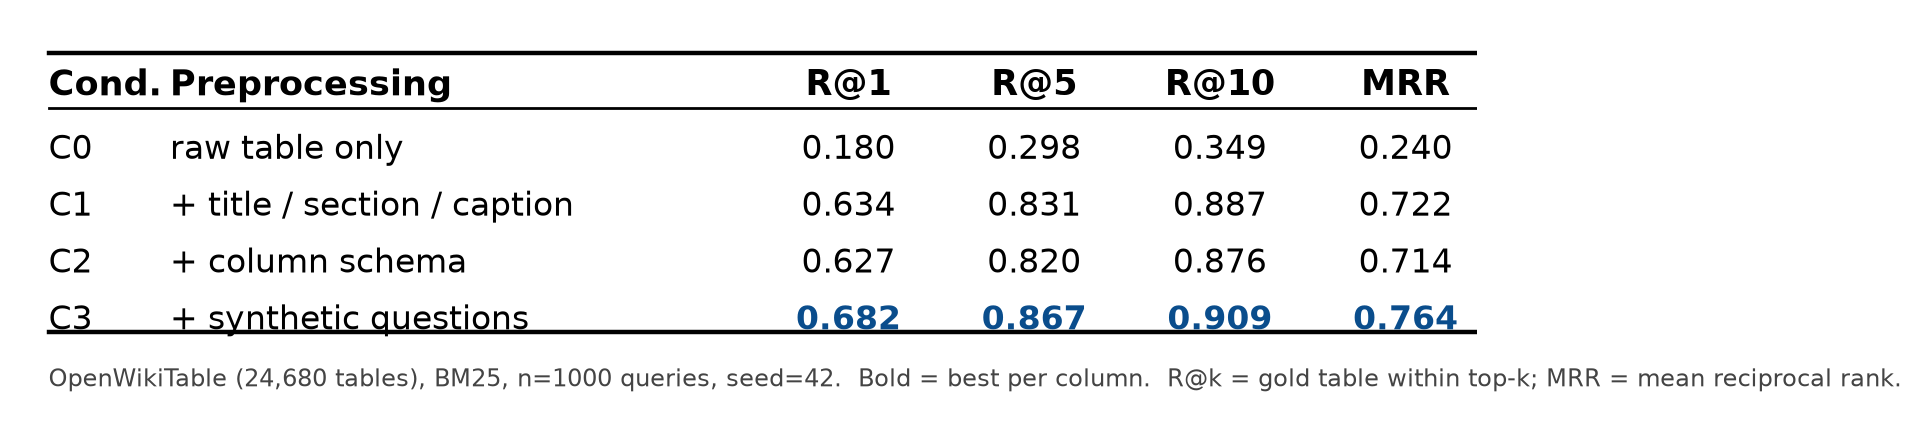
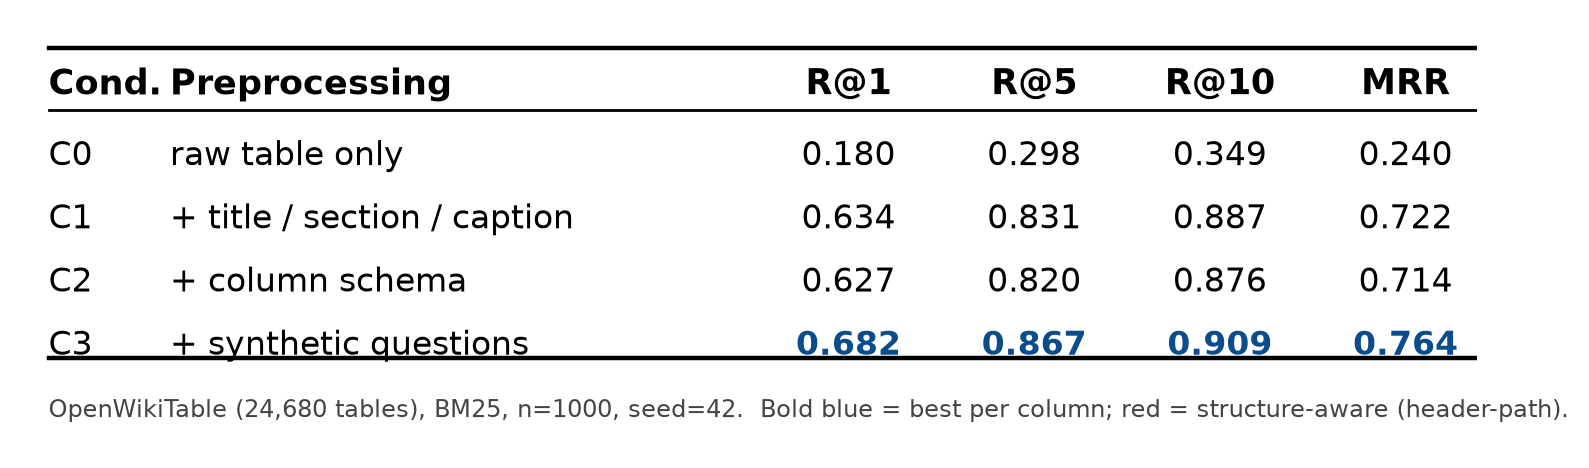
Add HiTab BM25 results table; generalize table-drawing script (parametric)

diff --git a/rag-agent/scripts/draw_results_table.py b/rag-agent/scripts/draw_results_table.py
@@ -1,70 +1,89 @@
 #!/usr/bin/env python3
-"""Render the BM25 preprocessing results as a publication-style (booktabs) table."""
+"""Render a prep-retrieval result JSON as a publication-style (booktabs) table.
+
+Usage:
+  python scripts/draw_results_table.py \
+      --json results/prep/owt_bm25_n1000.json \
+      --conditions C0,C1,C2,C3 \
+      --caption "OpenWikiTable (24,680 tables), BM25, n=1000, seed=42." \
+      --out docs/table_bm25_results.png
+"""
+import argparse
 import json
 from pathlib import Path
 import matplotlib
 matplotlib.use("Agg")
 import matplotlib.pyplot as plt
 
-base = Path(__file__).resolve().parents[1]
-d = json.load(open(base / "results/prep/owt_bm25_n1000.json"))
-C = d["conditions"]
-DESC = {"C0": "raw table only", "C1": "+ title / section / caption",
-        "C2": "+ column schema", "C3": "+ synthetic questions"}
-rows_order = ["C0", "C1", "C2", "C3"]
-metrics = ["R@1", "R@5", "R@10", "MRR"]
+DESC = {
+    "C0": "raw table only",
+    "C1": "+ title / section / caption",
+    "C2": "+ column schema",
+    "C2h": "+ header-path schema",
+    "C3": "+ synthetic questions",
+}
+# conditions to visually flag as structure-aware (header-path)
+HILITE = {"C2h"}
 
-# build cell text; bold the column-max
-colmax = {m: max(C[c][m] for c in rows_order) for m in metrics}
-table_rows = []
-for c in rows_order:
-    cells = [c, DESC[c]]
-    for m in metrics:
-        v = C[c][m]
-        cells.append(f"{v:.3f}")
-    table_rows.append(cells)
 
-header = ["Cond.", "Preprocessing", "R@1", "R@5", "R@10", "MRR"]
+def main():
+    p = argparse.ArgumentParser()
+    p.add_argument("--json", required=True)
+    p.add_argument("--conditions", default="C0,C1,C2,C3")
+    p.add_argument("--caption", default="")
+    p.add_argument("--out", required=True)
+    args = p.parse_args()
 
-plt.rcParams.update({"font.family": "DejaVu Sans"})
-fig, ax = plt.subplots(figsize=(9.4, 2.5))
-ax.axis("off")
+    base = Path(__file__).resolve().parents[1]
+    d = json.load(open(base / args.json))
+    C = d["conditions"]
+    order = [c.strip() for c in args.conditions.split(",")]
+    metrics = ["R@1", "R@5", "R@10", "MRR"]
+    colmax = {m: max(C[c][m] for c in order) for m in metrics}
 
-ncol = len(header)
-# column x-positions
-xs = [0.0, 0.085, 0.56, 0.69, 0.82, 0.95]
-y0 = 0.82
-dy = 0.155
+    header = ["Cond.", "Preprocessing", "R@1", "R@5", "R@10", "MRR"]
+    xs = [0.0, 0.085, 0.56, 0.69, 0.82, 0.95]
 
-# header
-for j, h in enumerate(header):
-    ha = "left" if j <= 1 else "center"
-    ax.text(xs[j], y0, h, fontsize=12.5, fontweight="bold", ha=ha, va="center")
-# rules (booktabs)
-ax.plot([0, 1.0], [y0+0.09, y0+0.09], color="black", lw=1.6)   # top
-ax.plot([0, 1.0], [y0-0.06, y0-0.06], color="black", lw=1.0)   # mid
+    plt.rcParams.update({"font.family": "DejaVu Sans"})
+    h = 1.1 + 0.42 * len(order)
+    fig, ax = plt.subplots(figsize=(9.4, h))
+    ax.axis("off")
 
-for i, r in enumerate(table_rows):
-    yy = y0 - 0.06 - dy*(i+1) + 0.04
-    for j, txt in enumerate(r):
+    y0 = 0.84
+    dy = 0.62 / len(order) if len(order) <= 4 else 0.155
+    dy = 0.155
+
+    for j, hh in enumerate(header):
         ha = "left" if j <= 1 else "center"
-        m = header[j] if j >= 2 else None
-        bold = (m is not None and abs(C[r[0]][m] - colmax[m]) < 1e-9)
-        ax.text(xs[j], yy, txt, fontsize=12, ha=ha, va="center",
-                fontweight="bold" if bold else "normal",
-                color="#0a4d8c" if bold else "black")
-# bottom rule
-ybot = y0 - 0.06 - dy*len(table_rows) + 0.01
-ax.plot([0, 1.0], [ybot, ybot], color="black", lw=1.6)
+        ax.text(xs[j], y0, hh, fontsize=12.5, fontweight="bold", ha=ha, va="center")
+    ax.plot([0, 1.0], [y0 + 0.09, y0 + 0.09], color="black", lw=1.6)
+    ax.plot([0, 1.0], [y0 - 0.06, y0 - 0.06], color="black", lw=1.0)
 
-ax.text(0.0, ybot-0.1,
-        "OpenWikiTable (24,680 tables), BM25, n=1000 queries, seed=42.  "
-        "Bold = best per column.  R@k = gold table within top-k; MRR = mean reciprocal rank.",
-        fontsize=8.5, color="#444", ha="left", va="top")
-ax.set_xlim(-0.02, 1.0); ax.set_ylim(ybot-0.2, 1.0)
+    for i, c in enumerate(order):
+        yy = y0 - 0.06 - dy * (i + 1) + 0.04
+        hil = c in HILITE
+        rowcells = [c, DESC.get(c, c)] + [f"{C[c][m]:.3f}" for m in metrics]
+        for j, txt in enumerate(rowcells):
+            ha = "left" if j <= 1 else "center"
+            m = header[j] if j >= 2 else None
+            best = (m is not None and abs(C[c][m] - colmax[m]) < 1e-9)
+            color = "#b00000" if hil else ("#0a4d8c" if best else "black")
+            weight = "bold" if (best or hil) else "normal"
+            ax.text(xs[j], yy, txt, fontsize=12, ha=ha, va="center",
+                    fontweight=weight, color=color)
 
-fig.savefig(base / "docs/table_bm25_results.png", dpi=200,
-            bbox_inches="tight", facecolor="white")
-print("saved")
-for r in table_rows:
-    print(r)
+    ybot = y0 - 0.06 - dy * len(order) + 0.01
+    ax.plot([0, 1.0], [ybot, ybot], color="black", lw=1.6)
+    cap = args.caption + ("  Bold blue = best per column; red = structure-aware (header-path).")
+    ax.text(0.0, ybot - 0.10, cap, fontsize=8.5, color="#444", ha="left", va="top")
+    ax.set_xlim(-0.02, 1.0)
+    ax.set_ylim(ybot - 0.22, 1.0)
+
+    fig.savefig(base / args.out, dpi=200, bbox_inches="tight", facecolor="white")
+    print("saved", args.out)
+    for c in order:
+        print(c, {m: round(C[c][m], 3) for m in metrics})
+
+
+if __name__ == "__main__":
+    main()